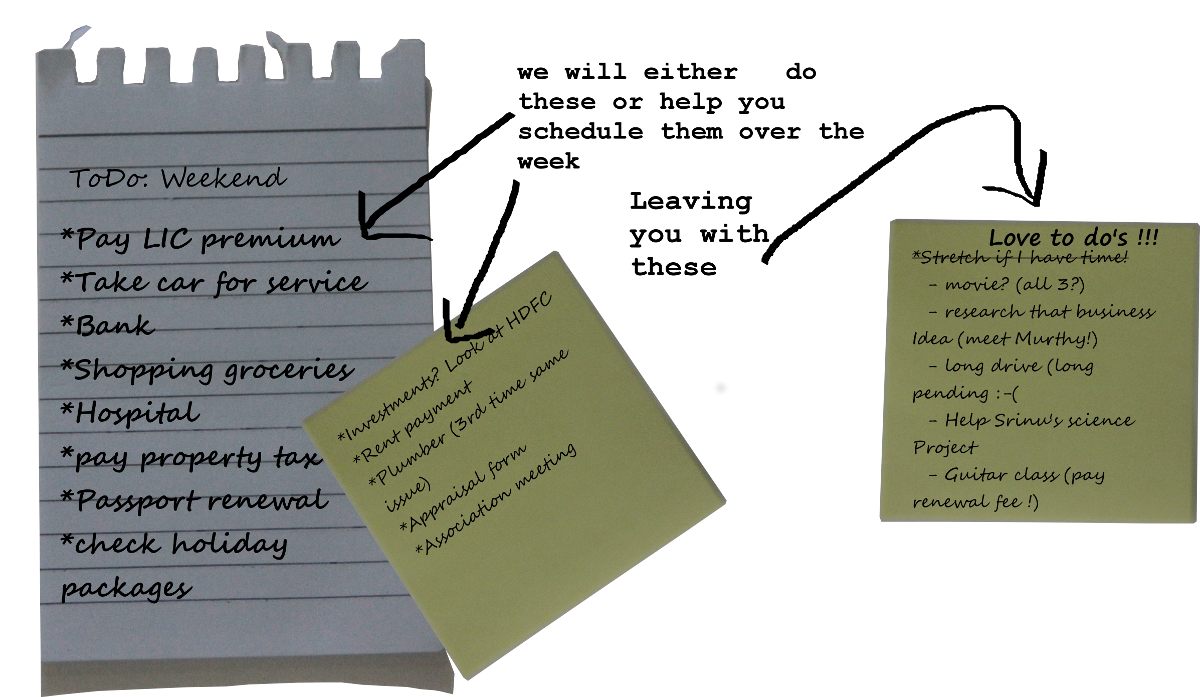
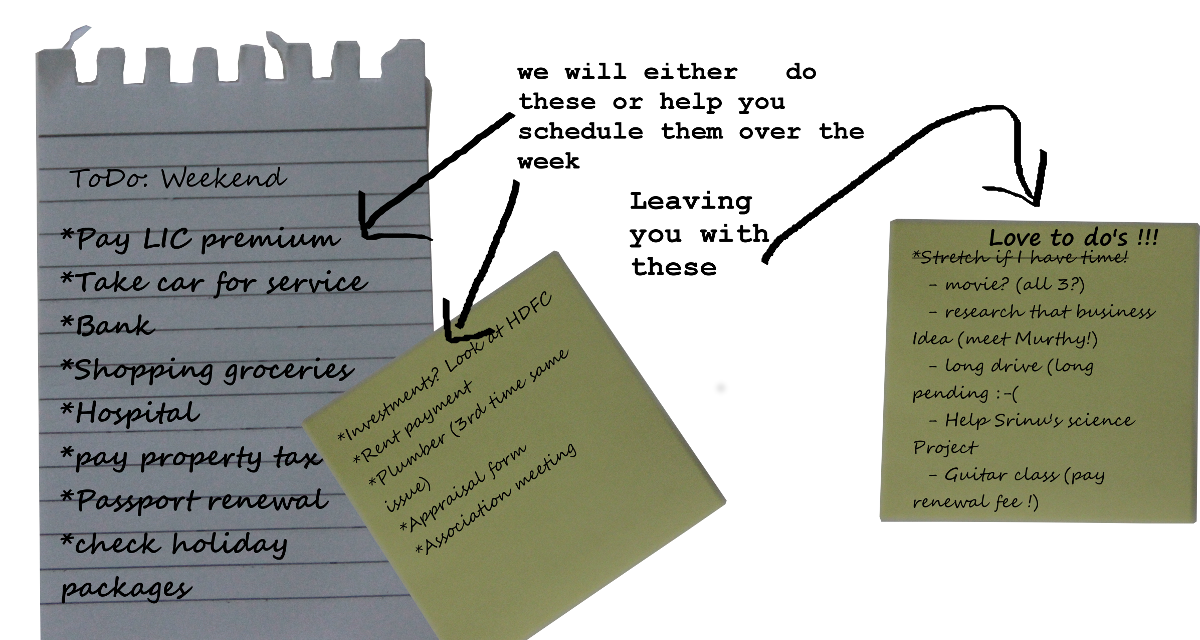
tablizing images

diff --git a/index.html b/index.html
@@ -15,6 +15,8 @@
 
       $(document).ready(function() {
       $(".planbtn").hide();
+      $(".planbtn").click(onClickPlan);
+      $(".discoverbtn").click(onClickDiscover);
       });
     </script>
     <title>lAghavA:lightness of being</title>
@@ -31,11 +33,101 @@
     </div>
     <div style="margin-top:5px;margin-left:auto;margin-right:auto;width:70%;text-align:center;" >
     </div>
-    <div style="margin-left:auto;margin-right:auto;width:70%;max-height:60%;" >
-    <img src="img/todolist.png" height="600px" width="1600px" class="discoverbtn" style="cursor:pointer;width:1600px;height:640px;" onClick="onClickDiscover()"/>
+    <div class="discoverbtn" style="margin-left:auto;margin-right:auto;width:70%;max-height:60%;" >
+
+<table border="0" cellpadding="0">
+<tr>
+<td>
+<img src="img/todolist/todolist0x0.png"/>
+</td>
+<td>
+<img src="img/todolist/todolist300x0.png"/>
+</td>
+<td>
+<img src="img/todolist/todolist600x0.png"/>
+</td>
+<td>
+<img src="img/todolist/todolist900x0.png"/>
+</td>
+</tr>
+<tr>
+<td>
+<img src="img/todolist/todolist0x300.png"/>
+</td>
+<td>
+<img src="img/todolist/todolist300x300.png"/>
+</td>
+<td>
+<img src="img/todolist/todolist600x300.png"/>
+</td>
+<td>
+<img src="img/todolist/todolist900x300.png"/>
+</td>
+</tr>
+<tr>
+<td>
+<img src="img/todolist/todolist0x600.png"/>
+</td>
+<td>
+<img src="img/todolist/todolist300x600.png"/>
+</td>
+<td>
+<img src="img/todolist/todolist600x600.png"/>
+</td>
+<td>
+<img src="img/todolist/todolist900x600.png"/>
+</td>
+</tr>
+</table>
+    <!-- <img src="img/todolist.png" height="600px" width="1600px" class="discoverbtn" style="cursor:pointer;width:1600px;height:640px;" onClick="onClickDiscover()"/> -->
     </div>
-    <div style="margin-left:auto;margin-right:auto;width:70%;max-height:60%;" >
-    <img src="img/leffect.png" height="600px" width="1200px" class="planbtn" style="cursor:pointer;width:1200px;height:640px;" onClick="onClickPlan()"/>
+    <div class= "planbtn" style="margin-left:auto;margin-right:auto;width:70%;max-height:60%;" >
+
+<table border="0" cellpadding="0">
+<tr>
+<td>
+<img src="img/leffect/leffect0x0.png"/>
+</td>
+<td>
+<img src="img/leffect/leffect300x0.png"/>
+</td>
+<td>
+<img src="img/leffect/leffect600x0.png"/>
+</td>
+<td>
+<img src="img/leffect/leffect900x0.png"/>
+</td>
+</tr>
+<tr>
+<td>
+<img src="img/leffect/leffect0x300.png"/>
+</td>
+<td>
+<img src="img/leffect/leffect300x300.png"/>
+</td>
+<td>
+<img src="img/leffect/leffect600x300.png"/>
+</td>
+<td>
+<img src="img/leffect/leffect900x300.png"/>
+</td>
+</tr>
+<tr>
+<td>
+<img src="img/leffect/leffect0x600.png"/>
+</td>
+<td>
+<img src="img/leffect/leffect300x600.png"/>
+</td>
+<td>
+<img src="img/leffect/leffect600x600.png"/>
+</td>
+<td>
+<img src="img/leffect/leffect900x600.png"/>
+</td>
+</tr>
+</table>
+<!--    <img src="img/leffect.png" height="600px" width="1200px" class="planbtn" style="cursor:pointer;width:1200px;height:640px;" onClick="onClickPlan()"/> -->
     </div>
     <div style="text-align:center;">
       <strong style="font-size:25px;">Interested in taking your life to the next level? Why not <a class="btn btn-primary" href="willcall.html">take us for a spin</a> ?</strong>

diff --git a/img/todolisttable.html b/img/todolisttable.html
@@ -1,0 +1,44 @@
+<table>
+<tr>
+<td>
+<img src="img/todolist/todolist0x0.png"/>
+</td>
+<td>
+<img src="img/todolist/todolist300x0.png"/>
+</td>
+<td>
+<img src="img/todolist/todolist600x0.png"/>
+</td>
+<td>
+<img src="img/todolist/todolist900x0.png"/>
+</td>
+</tr>
+<tr>
+<td>
+<img src="img/todolist/todolist0x300.png"/>
+</td>
+<td>
+<img src="img/todolist/todolist300x300.png"/>
+</td>
+<td>
+<img src="img/todolist/todolist600x300.png"/>
+</td>
+<td>
+<img src="img/todolist/todolist900x300.png"/>
+</td>
+</tr>
+<tr>
+<td>
+<img src="img/todolist/todolist0x600.png"/>
+</td>
+<td>
+<img src="img/todolist/todolist300x600.png"/>
+</td>
+<td>
+<img src="img/todolist/todolist600x600.png"/>
+</td>
+<td>
+<img src="img/todolist/todolist900x600.png"/>
+</td>
+</tr>
+</table>

diff --git a/img/leffecttable.html b/img/leffecttable.html
@@ -1,0 +1,44 @@
+<table>
+<tr>
+<td>
+<img src="img/leffect/leffect0x0.png"/>
+</td>
+<td>
+<img src="img/leffect/leffect300x0.png"/>
+</td>
+<td>
+<img src="img/leffect/leffect600x0.png"/>
+</td>
+<td>
+<img src="img/leffect/leffect900x0.png"/>
+</td>
+</tr>
+<tr>
+<td>
+<img src="img/leffect/leffect0x300.png"/>
+</td>
+<td>
+<img src="img/leffect/leffect300x300.png"/>
+</td>
+<td>
+<img src="img/leffect/leffect600x300.png"/>
+</td>
+<td>
+<img src="img/leffect/leffect900x300.png"/>
+</td>
+</tr>
+<tr>
+<td>
+<img src="img/leffect/leffect0x600.png"/>
+</td>
+<td>
+<img src="img/leffect/leffect300x600.png"/>
+</td>
+<td>
+<img src="img/leffect/leffect600x600.png"/>
+</td>
+<td>
+<img src="img/leffect/leffect900x600.png"/>
+</td>
+</tr>
+</table>

diff --git a/util/slice.py b/util/slice.py
@@ -1,0 +1,31 @@
+import Image
+import sys
+import string
+import os
+filename = sys.argv[1]
+dirname = sys.argv[2]
+os.mkdir(dirname)
+im = Image.open(filename)
+prefix = filename.split(".")[0]
+width = im.size[0]
+height = im.size[1]
+step = 300
+print "<table>"
+for y in range(0,height,step):
+	print "<tr>"
+	for x in range(0,width,step):
+		stepx = step
+		stepy = step
+		if (x + step) > width:
+			stepx = width - x 
+		if (y + step) > height:
+			stepy = height - y
+		print "<td>"
+		im2=im.crop([x,y,x+stepx,y+stepy])
+		imagename = dirname+"/"+prefix+str(x)+"x"+str(y)+".png";
+		imageurl = "img/"+imagename
+		print '<img src="'+imageurl+'"/>'
+		im2.save(dirname+"/"+prefix+str(x)+"x"+str(y)+".png");
+		print "</td>"
+	print "</tr>"
+print "</table>"
